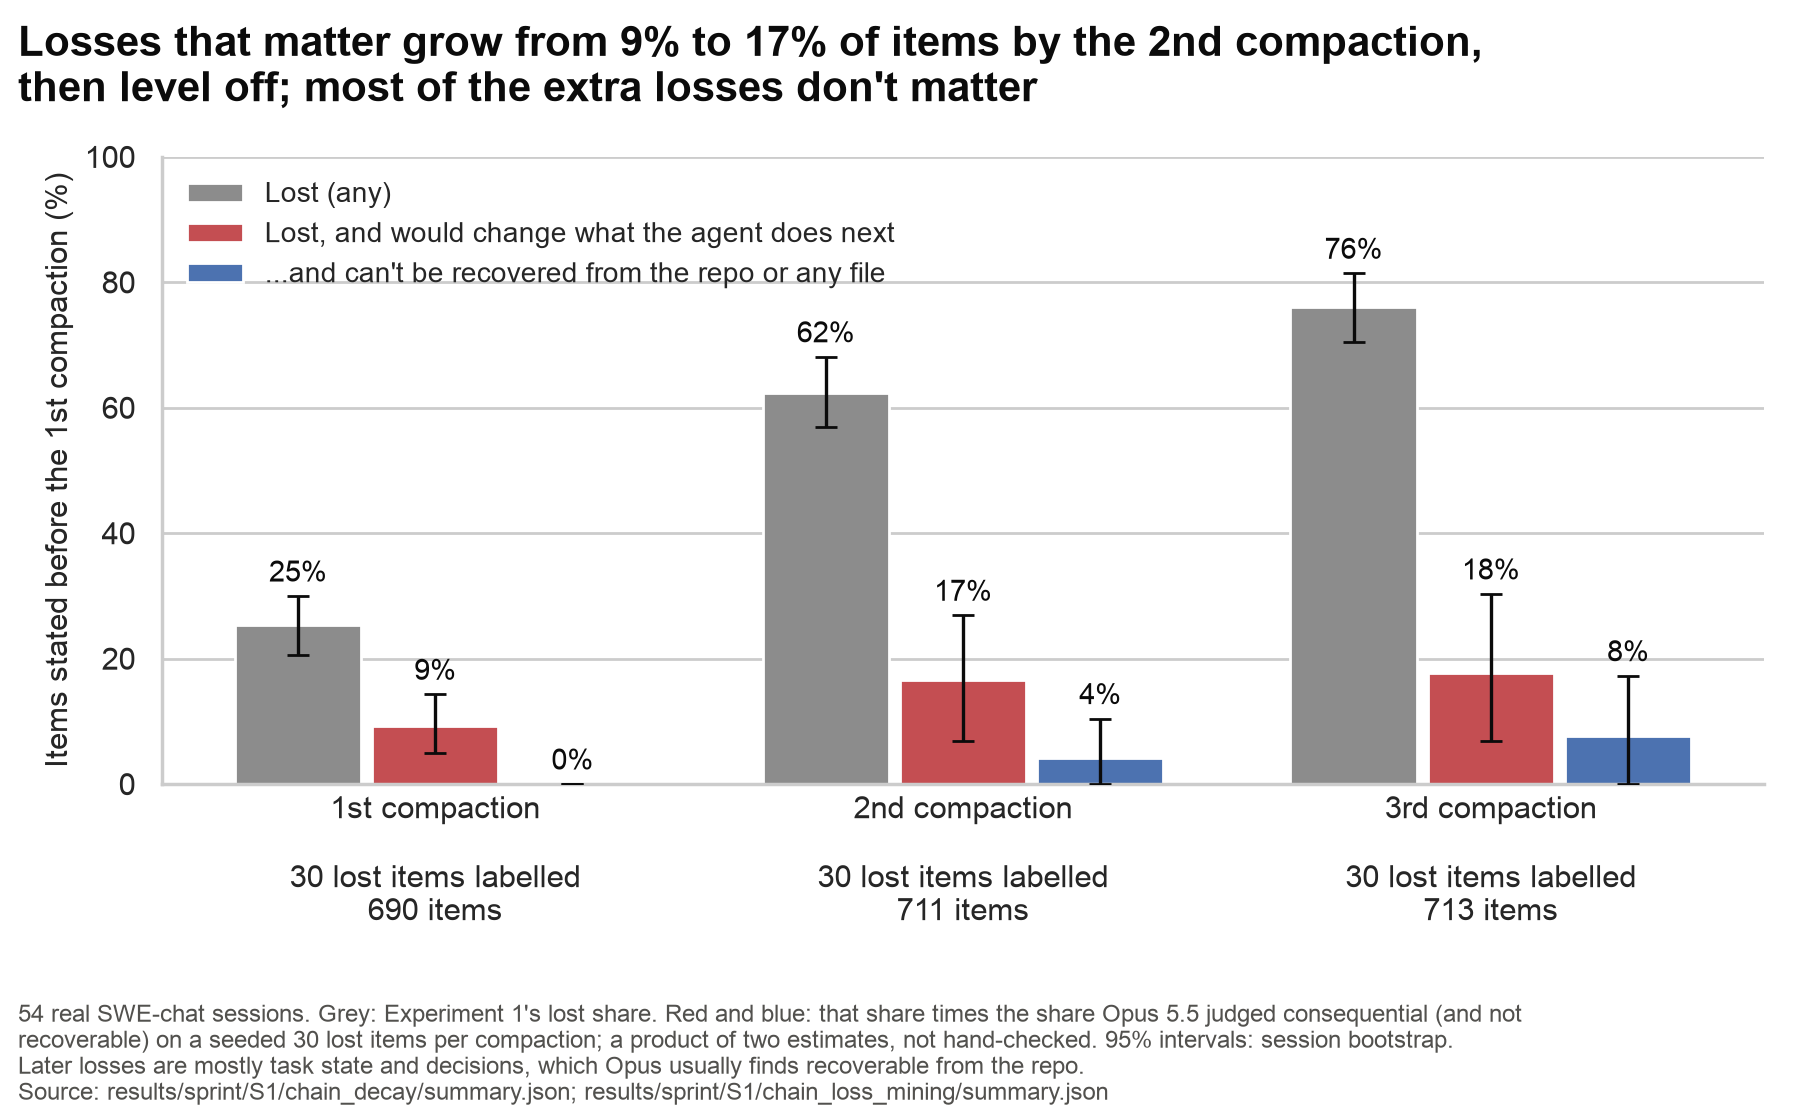
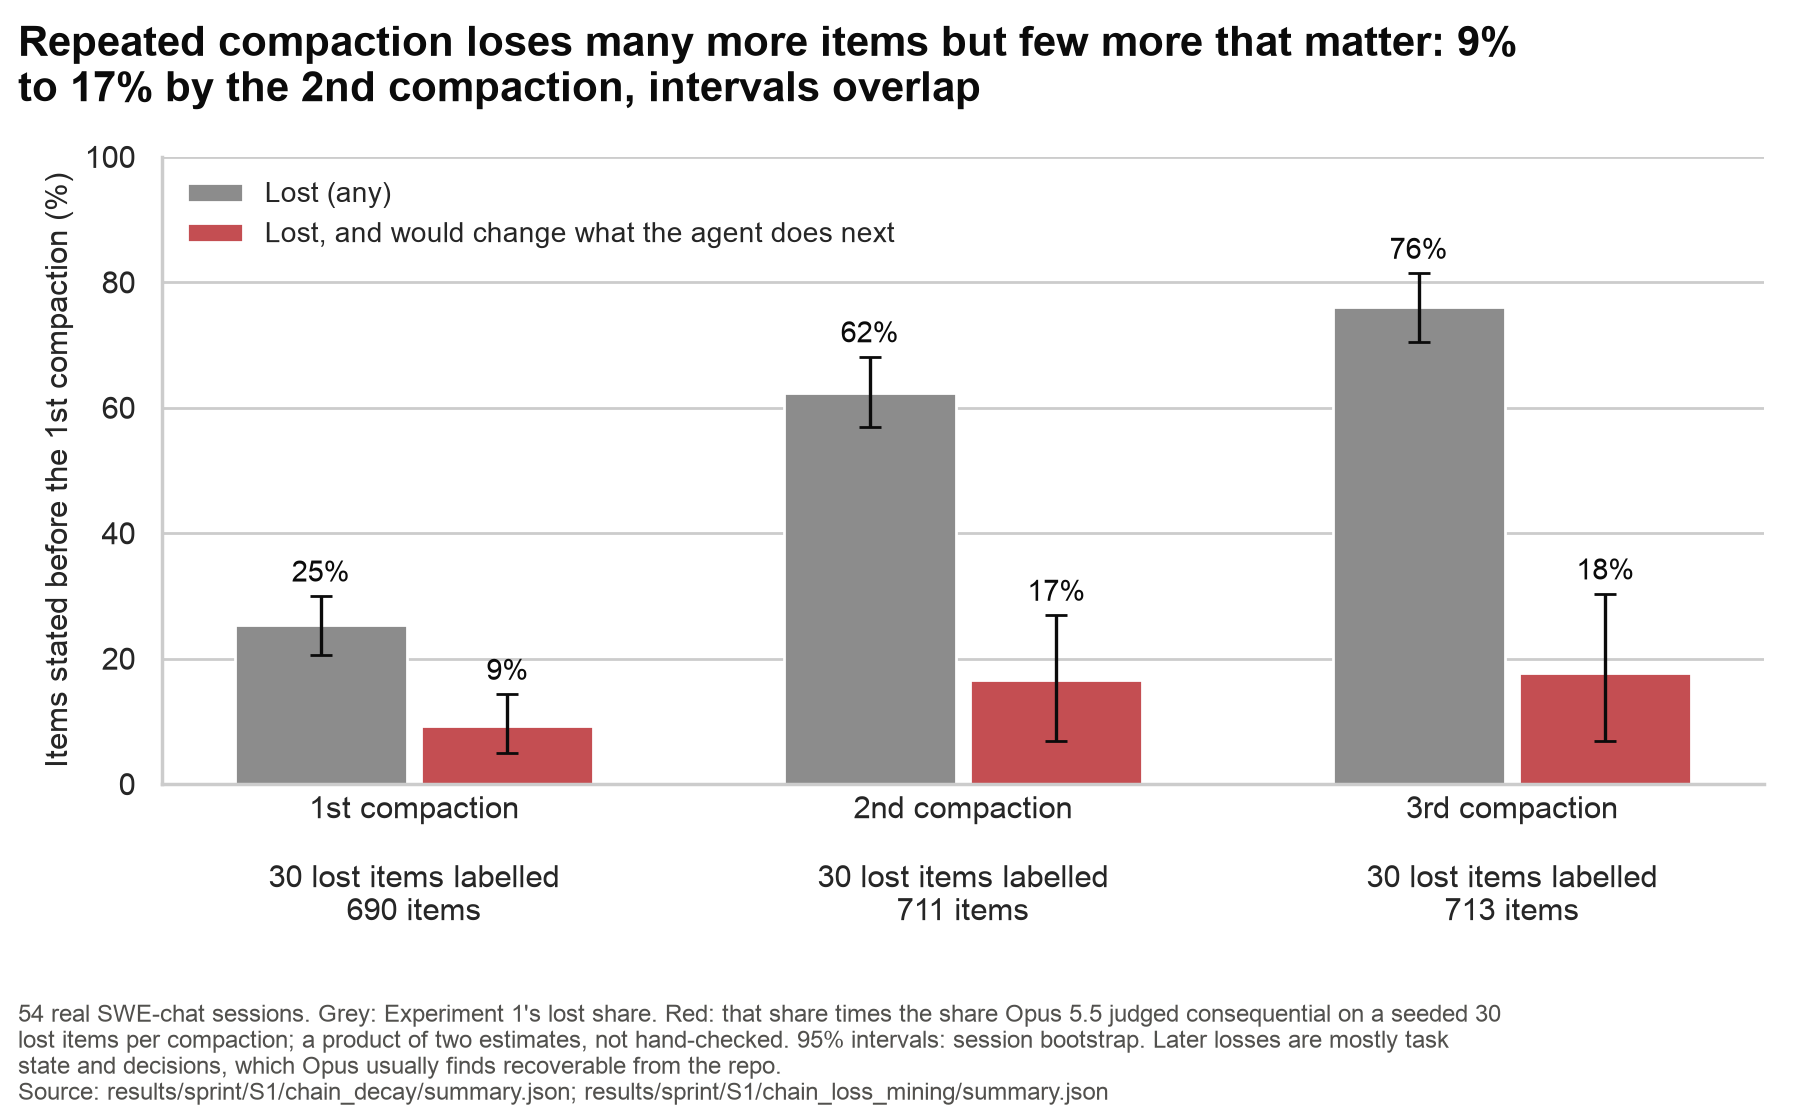
docs/sprint: chain figure 02 retitled (intervals overlap), unrecoverable bars dropped

diff --git a/docs/sprint/figs/chain/README.md b/docs/sprint/figs/chain/README.md
@@ -19,7 +19,7 @@ Generated by `scripts/sprint_figs_chain.py` (`uv run python scripts/sprint_figs_
 - Note: the uncensored row counts every item; the censored row (items a later stretch showed no longer current dropped) differs by about 2 points at k=2 and 3. Later compactions (5-8) have 7-12 sessions and are left out.
 
 
-## 02_lost_and_matters: Losses that matter grow from 9% to 17% of items by the 2nd compaction, then level off; most of the extra losses don't matter
+## 02_lost_and_matters: Repeated compaction loses many more items but few more that matter: 9% to 17% by the 2nd compaction, intervals overlap
 
 ![lost and matters](02_lost_and_matters.png)
 
@@ -28,4 +28,3 @@ Generated by `scripts/sprint_figs_chain.py` (`uv run python scripts/sprint_figs_
 **Numbers plotted:**
 - Lost (any): k=1 25.4% [20.6, 30.0]; k=2 62.3% [56.9, 68.1]; k=3 76.0% [70.5, 81.4]
 - Lost, and would change what the agent does next: k=1 9.3% [5.0, 14.3]; k=2 16.6% [6.9, 26.9]; k=3 17.7% [6.8, 30.3]
-- ...and can't be recovered from the repo or any file: k=1 0.0% [0.0, 0.0]; k=2 4.2% [0.0, 10.4]; k=3 7.6% [0.0, 17.3]
